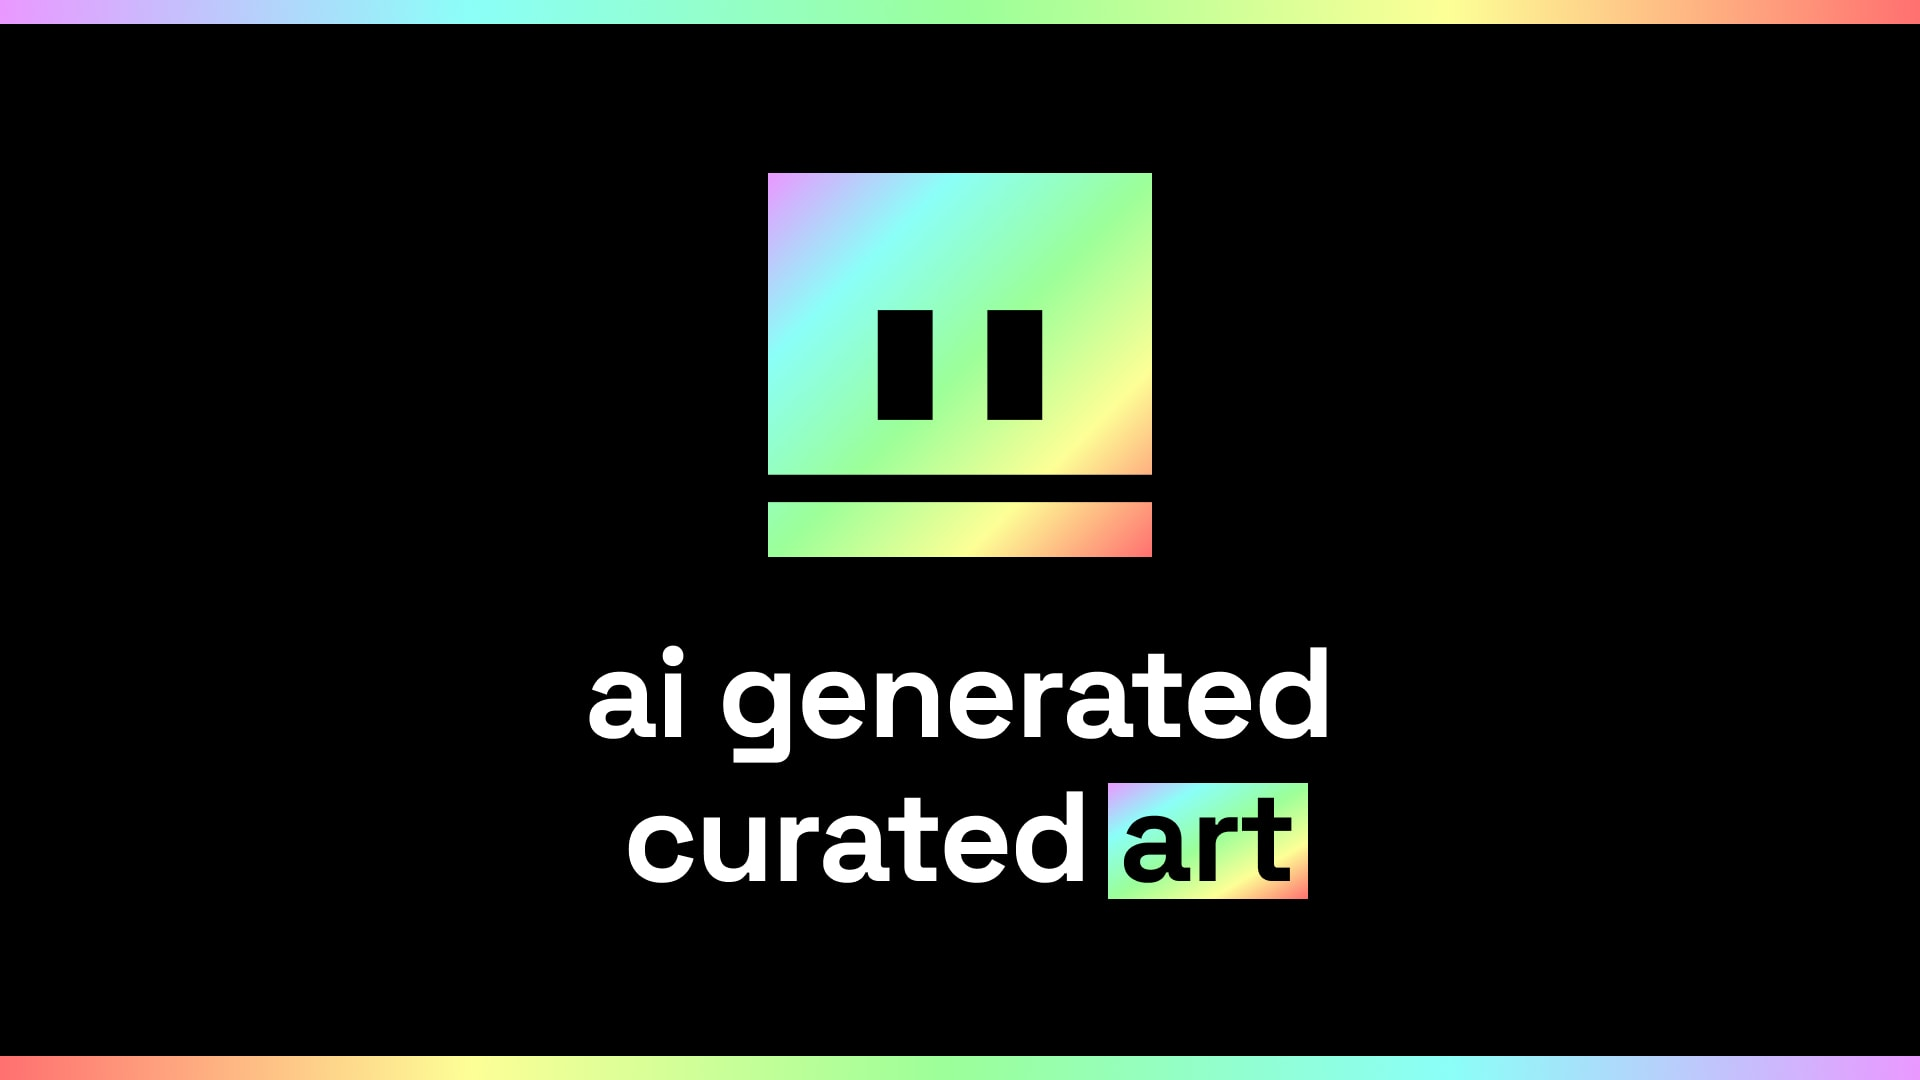
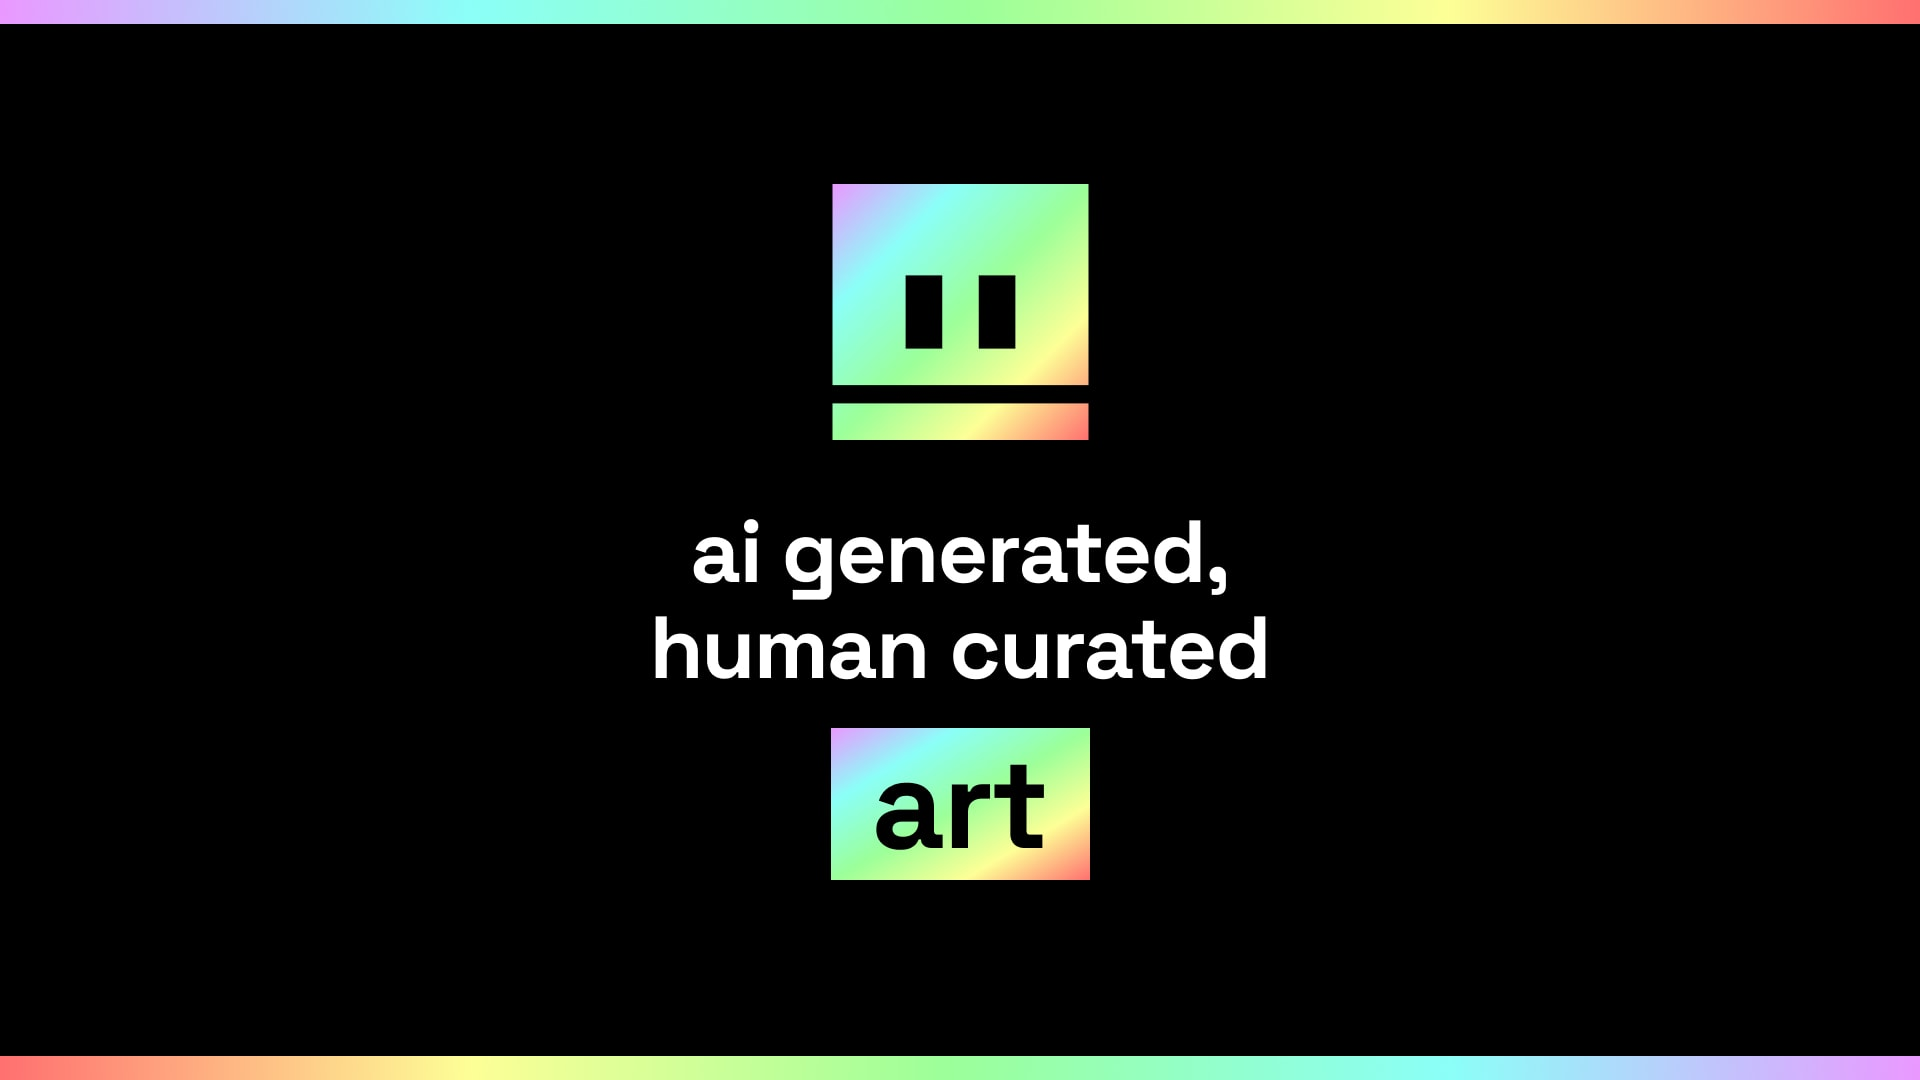
ai generated, human curated

Changed region(s): [[0.2812, 0.1528, 0.7188, 0.8556]]

diff --git a/src/routes/+page.svelte b/src/routes/+page.svelte
@@ -12,20 +12,20 @@
 
 <MetaTag
 	title="boohuman"
-	description="ai generated, curated art. no edits of any kind."
+	description="ai generated, human curated art."
 	imageUrl="{canonicalUrl}/previews/home.jpg"
 	canonical={canonicalUrl}
 />
 
 <div class="flex-1 flex flex-col items-center justify-center relative">
 	<h1
-		class="px-5 text-4xl md:text-5xl leading-tight md:leading-tight font-bold text-center pt-20 pb-8"
+		class="px-5 text-4xl md:text-5xl leading-tight md:leading-tight font-bold text-center pt-16 pb-4"
 	>
-		ai generated, curated <span
-			style="text-fill-color: transparent; -webkit-text-fill-color: transparent;"
-			class="bg-clip-text p-gradient-135">art</span
-		>.<br />
-		no edits of any kind.
+		ai generated,
+		<br />
+		human curated
+		<br />
+		<div class="text-7xl md:text-8xl text-c-bg p-gradient-135 inline-block px-4 mt-4">art</div>
 	</h1>
 	<CollectionsSection {collections} />
 </div>

diff --git a/src/routes/collections/+page.svelte b/src/routes/collections/+page.svelte
@@ -13,7 +13,7 @@
 
 <MetaTag
 	title="collections | boohuman"
-	description=""
+	description="ai generated, human curated art collections."
 	imageUrl="{canonicalUrl}/previews{$page.url.pathname}.jpg"
 	canonical="{canonicalUrl}/collections"
 />
@@ -23,7 +23,7 @@
 		collections
 	</h1>
 	<div
-		class="w-full flex flex-row flex-wrap justify-center items-start mt-6 px-2.5 md:px-8 lg:px-12"
+		class="w-full flex flex-row flex-wrap justify-center items-start mt-5 px-2.5 md:px-8 lg:px-12"
 	>
 		{#each collections as collection}
 			<CollectionCard {collection} class="md:w-1/2 lg:w-1/3 p-2.5" />

diff --git a/src/lib/components/CollectionsSection.svelte b/src/lib/components/CollectionsSection.svelte
@@ -11,7 +11,7 @@
 <div class="w-full flex flex-col items-center pt-12 pb-20 {classes}">
 	<h2 class="text-4xl md:text-5xl leading-tight md:leading-tight font-bold">collections</h2>
 	<div
-		class="w-full flex flex-row flex-wrap justify-center items-start mt-6 px-2.5 md:px-8 lg:px-12"
+		class="w-full flex flex-row flex-wrap justify-center items-start mt-5 px-2.5 md:px-8 lg:px-12"
 	>
 		{#each collections as collection}
 			<CollectionCard {collection} />

diff --git a/src/lib/components/CollectionCard.svelte b/src/lib/components/CollectionCard.svelte
@@ -46,7 +46,7 @@
 							class="w-full text-center px-5 py-5 text-xl font-bold relative transition
 								text-c-on-bg {$isTouchscreen ? 'group-active:text-c-bg' : 'group-hover:text-c-bg'}"
 						>
-							{collection.name}
+							{collection.name.toLowerCase()}
 						</p>
 					</div>
 					<div class="w-full bg-c-bg/10">

diff --git a/src/routes/about/+page.svelte b/src/routes/about/+page.svelte
@@ -7,7 +7,7 @@
 
 <MetaTag
 	title="about | boohuman"
-	description=""
+	description="ai is coming for you. boo!"
 	imageUrl="{canonicalUrl}/previews{$page.url.pathname}.jpg"
 	canonical="{canonicalUrl}/about"
 />
